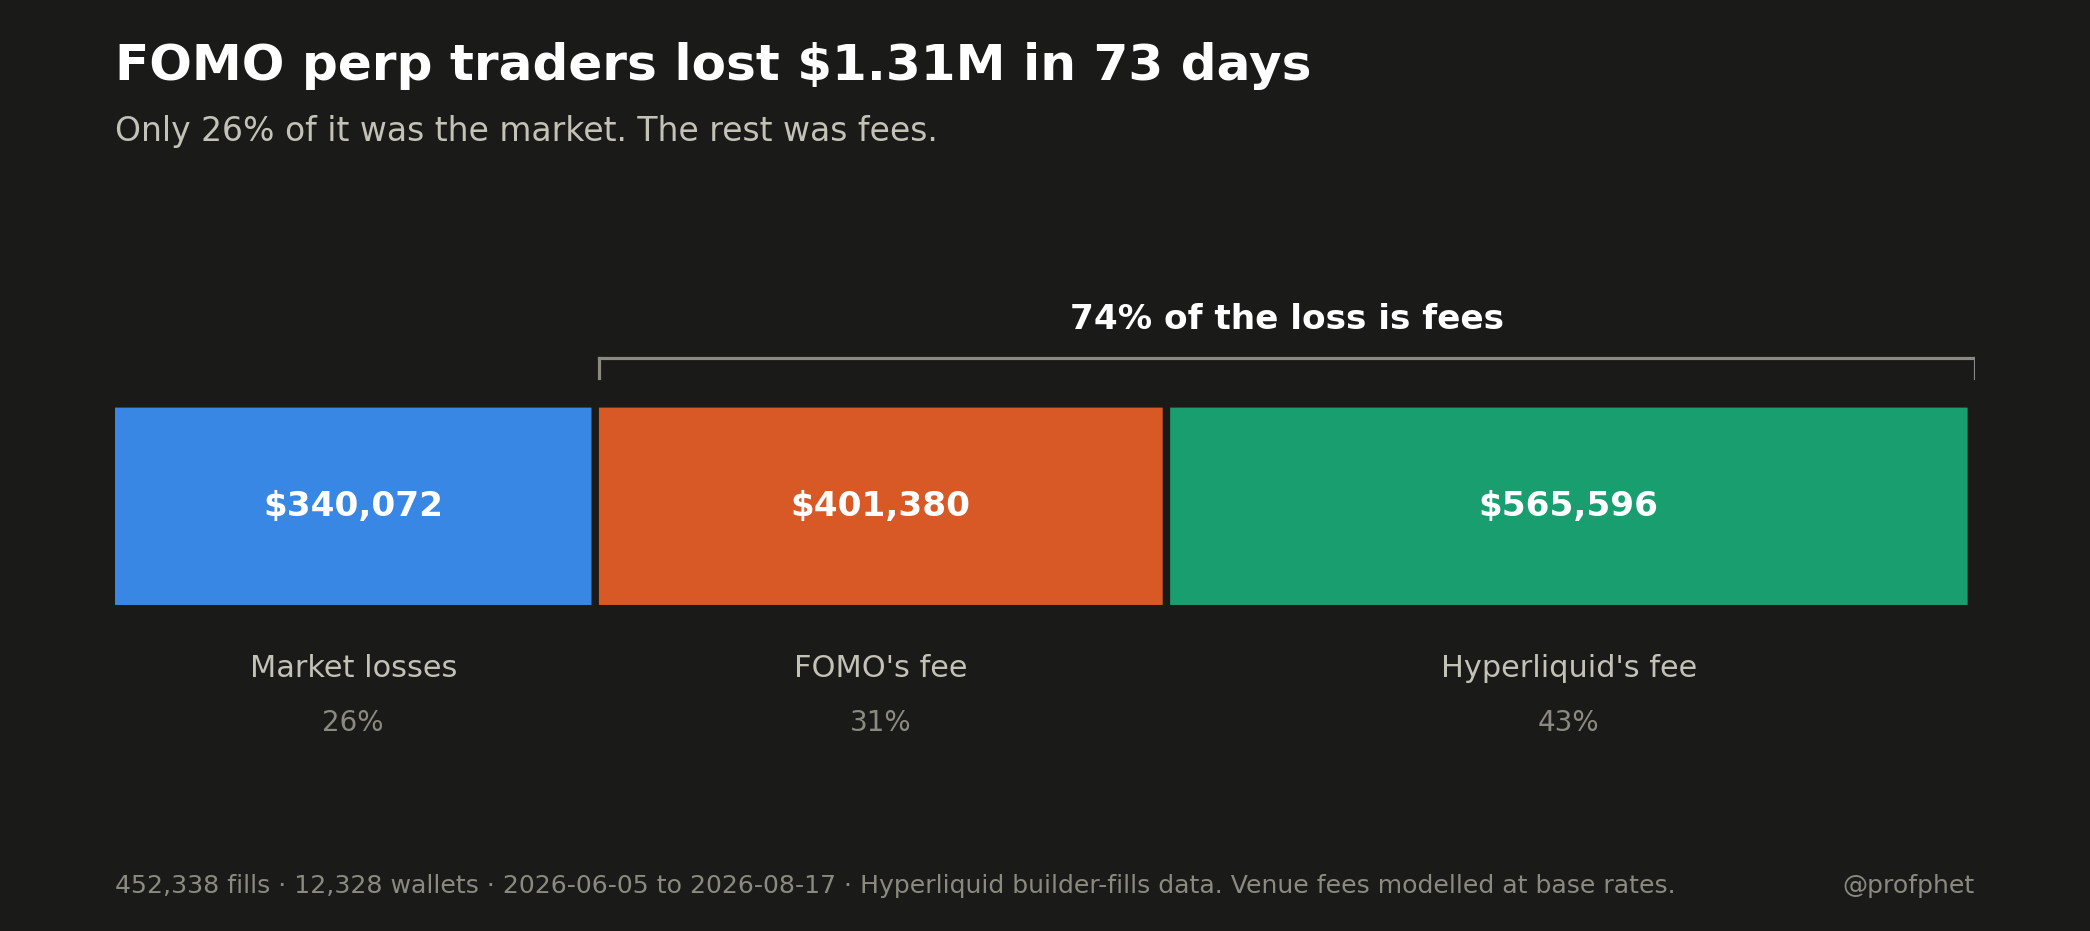
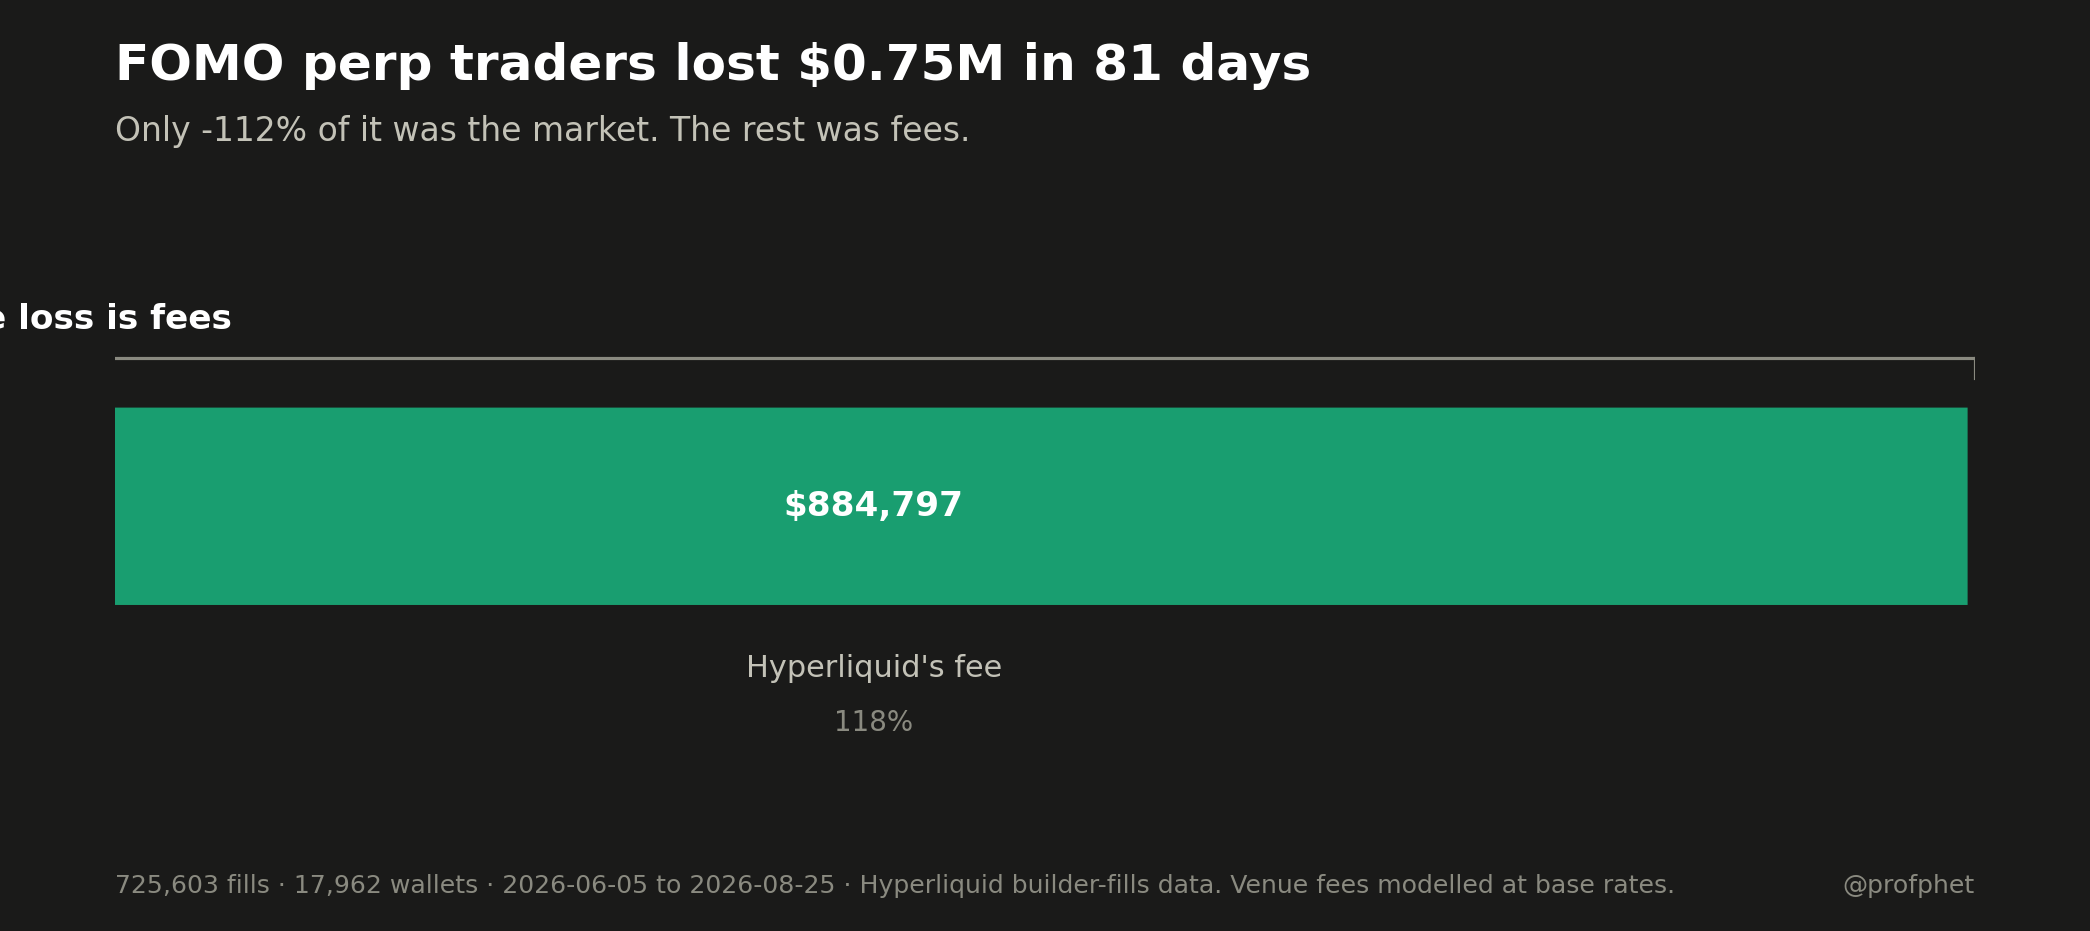
Refresh through 2026-08-25 and stop hardcoding interpretive claims
Corpus grew 60% (452k -> 726k fills) as FOMO's weekly perp volume went
from $113M to $660M. Several findings moved with it:

- aggregate trading PnL flipped positive; traders now make $839,776
  trading and pay $1,589,442 in fees, so the story is cleaner rather
  than weaker -- fees are 1.9x their trading profit
- net-positive share rose 29% -> 33.5%
- month-over-month skew reversal fell from 7-of-12 markets to 5-of-12

Two analysis lines were asserting conclusions instead of computing them,
and had become false as the data moved: the fee-share-of-drain figure
divided by a now-positive PnL (printing "212% of the drain is fees"),
and "return on notional stays negative in every bucket" no longer held.
Both are now derived.

diff --git a/fomo_outcomes.py b/fomo_outcomes.py
@@ -83,9 +83,14 @@ def main():
     print(f"   modelled Hyperliquid fees      ${tot_hl:>14,.0f}")
     print(f"   {'-'*46}")
     print(f"   net to the cohort              ${tot_pnl - tot_bf - tot_hl:>14,.0f}   over {days} days")
-    print(f"\n   Of the total drain, fees are "
-          f"{(tot_bf+tot_hl)/abs(tot_pnl-tot_bf-tot_hl)*100:.0f}% "
-          f"-- the rest is market losses.")
+    fees = tot_bf + tot_hl
+    if tot_pnl < 0:
+        print(f"\n   Of the total drain, fees are {fees/abs(tot_pnl-fees)*100:.0f}%"
+              f" -- the rest is market losses.")
+    else:
+        print(f"\n   Traders made ${tot_pnl:,.0f} TRADING and paid ${fees:,.0f} in fees."
+              f"\n   Fees are {fees/tot_pnl:.1f}x their trading profit. They are not losing"
+              f"\n   to the market -- they are losing to the toll.")
 
     # ------------------------------------------------------------------ 2
     rule("2. Does EXPERIENCE help?  (the question the 10-day window can't ask)")
@@ -183,13 +188,15 @@ def main():
    ({d0[:4]}-{d0[4:6]}-{d0[6:]} to {d1[:4]}-{d1[4:6]}-{d1[6:]}), on public Hyperliquid data:
 
    · {wa/len(traded)*100:.1f}% of FOMO perp traders are net-positive after fees.
-   · The cohort is down ${abs(tot_pnl - tot_bf - tot_hl):,.0f} in {days} days -- and
-     {(tot_bf+tot_hl)/abs(tot_pnl-tot_bf-tot_hl)*100:.0f}% of that drain is FEES, not market losses.
+   · They made ${tot_pnl:,.0f} from trading and paid ${tot_bf+tot_hl:,.0f} in fees,
+     so the cohort is {"down" if tot_pnl-tot_bf-tot_hl < 0 else "up"} ${abs(tot_pnl-tot_bf-tot_hl):,.0f} over {days} days.
+     Fees are {(tot_bf+tot_hl)/abs(tot_pnl):.1f}x their trading {"profit" if tot_pnl>0 else "loss"}.
    · {tk/tot_f*100:.1f}% of fills cross the spread. They almost never post a limit order.
    · {one_day/users*100:.1f}% of wallets traded on exactly one day and never returned;
      {alive/len(eligible)*100:.1f}% of wallets old enough to churn were still trading at the end.
-   · Experience barely helps: win rate climbs from {sum(1 for u in traded if w_days[u]==1 and net_a(u)>0)/max(1,sum(1 for u in traded if w_days[u]==1))*100:.0f}% (1 day active)
-     to ~40% (16-30 days), but return on notional stays negative in every bucket.
+   · Win rate climbs from {sum(1 for u in traded if w_days[u]==1 and net_a(u)>0)/max(1,sum(1 for u in traded if w_days[u]==1))*100:.0f}% (1 day active) to
+     {sum(1 for u in traded if 16<=w_days[u]<=30 and net_a(u)>0)/max(1,sum(1 for u in traded if 16<=w_days[u]<=30))*100:.0f}% (16-30 days). Return on notional is negative in
+     {sum(1 for lo,hi in [(1,1),(2,3),(4,7),(8,15),(16,30),(31,999)] if (lambda c: c and sum(net_a(u) for u in c)/sum(w_not[u] for u in c) < 0)([u for u in traded if lo<=w_days[u]<=hi]))} of 6 experience buckets.
    · FOMO collected ${tot_bf:,.0f} in builder fees on ${all_no:,.0f} of notional.
 """)
     con.close()

diff --git a/README.md b/README.md
@@ -8,22 +8,36 @@ RPC. **Nothing touches fomo.family's servers.** No API key is required for any o
 
 ## What it found
 
-Across **452,338 perpetuals fills** (12,328 wallets, 2026-06-05 → 08-17) and **5,882
+Across **725,603 perpetuals fills** (17,962 wallets, 2026-06-05 → 08-25) and **5,882
 Solana spot trades**:
 
-- **29% of perp traders finish ahead after fees.** The cohort is down $1.31M, and
-  **74% of that drain is fees, not market losses.**
-- **98.7% of fills cross the spread.** They almost never post a limit order.
-- **44.5% of wallets traded on exactly one day** and never came back.
+- **They are not losing to the market. They are losing to the toll.** Traders made
+  **$839,776 from actual trading** and paid **$1,589,442 in fees** — fees are **1.9×
+  their trading profit**. The cohort is down $749,665. Only 33.5% finish ahead.
+- **98.5% of fills cross the spread.** Limit orders are 2% of activity.
+- **43.1% of wallets traded on exactly one day** and never came back. Of those old
+  enough to churn, 23.4% were still trading at the end.
 - **The advertised fee rate is a default, not a price.** It is a per-account setting
   that gets granted *and revoked* by hand — 2 grants and 26 revocations observed on
-  perps; every long-history spot account observed repriced. There is no volume
-  threshold: accounts lost a discount after $997 of trading and kept it past $5M.
-- **Spot pricing is regressive.** Trades under $5 pay a median **82%** in fees, against
-  the advertised 0.50%, because of the flat minimum fee.
-- **53% of spot volume is discounted**, blending to 0.379% against a 0.500% headline.
+  perps; every long-history spot account observed repriced. No volume threshold:
+  accounts lost a discount after $997 of trading and kept it past $5M.
+- **Discounted accounts are 0.6% of wallets and 40% of the top 10 by PnL** — roughly
+  60× overrepresented. (Correlation; the discount likely follows size rather than
+  causing profitability.)
+- **Spot pricing is regressive.** Trades under $5 pay a median **82%** in fees against
+  the advertised 0.50%, because of the flat minimum. 53% of spot volume is discounted,
+  blending to 0.379% against a 0.500% headline.
+- **Winners and losers are behaviourally identical** at the median: 2 active days, 2
+  markets, 100% taker, near-identical fill sizes. There is no visible edge — it is
+  variance.
 
-Charts for each are in [`content/`](content/).
+Charts for each are in [`content/`](content/), and every one derives its own labels and
+totals from the database, so they never drift from the data.
+
+**These numbers move.** The corpus grew 60% in the nine days to 08-25 as FOMO's weekly
+perp volume went from $113M to $660M, and several findings changed materially with it —
+aggregate trading PnL flipped positive, and month-over-month positioning skew went from
+7-of-12 markets reversing to 5-of-12. Re-run before quoting anything.
 
 ## Quickstart
 
